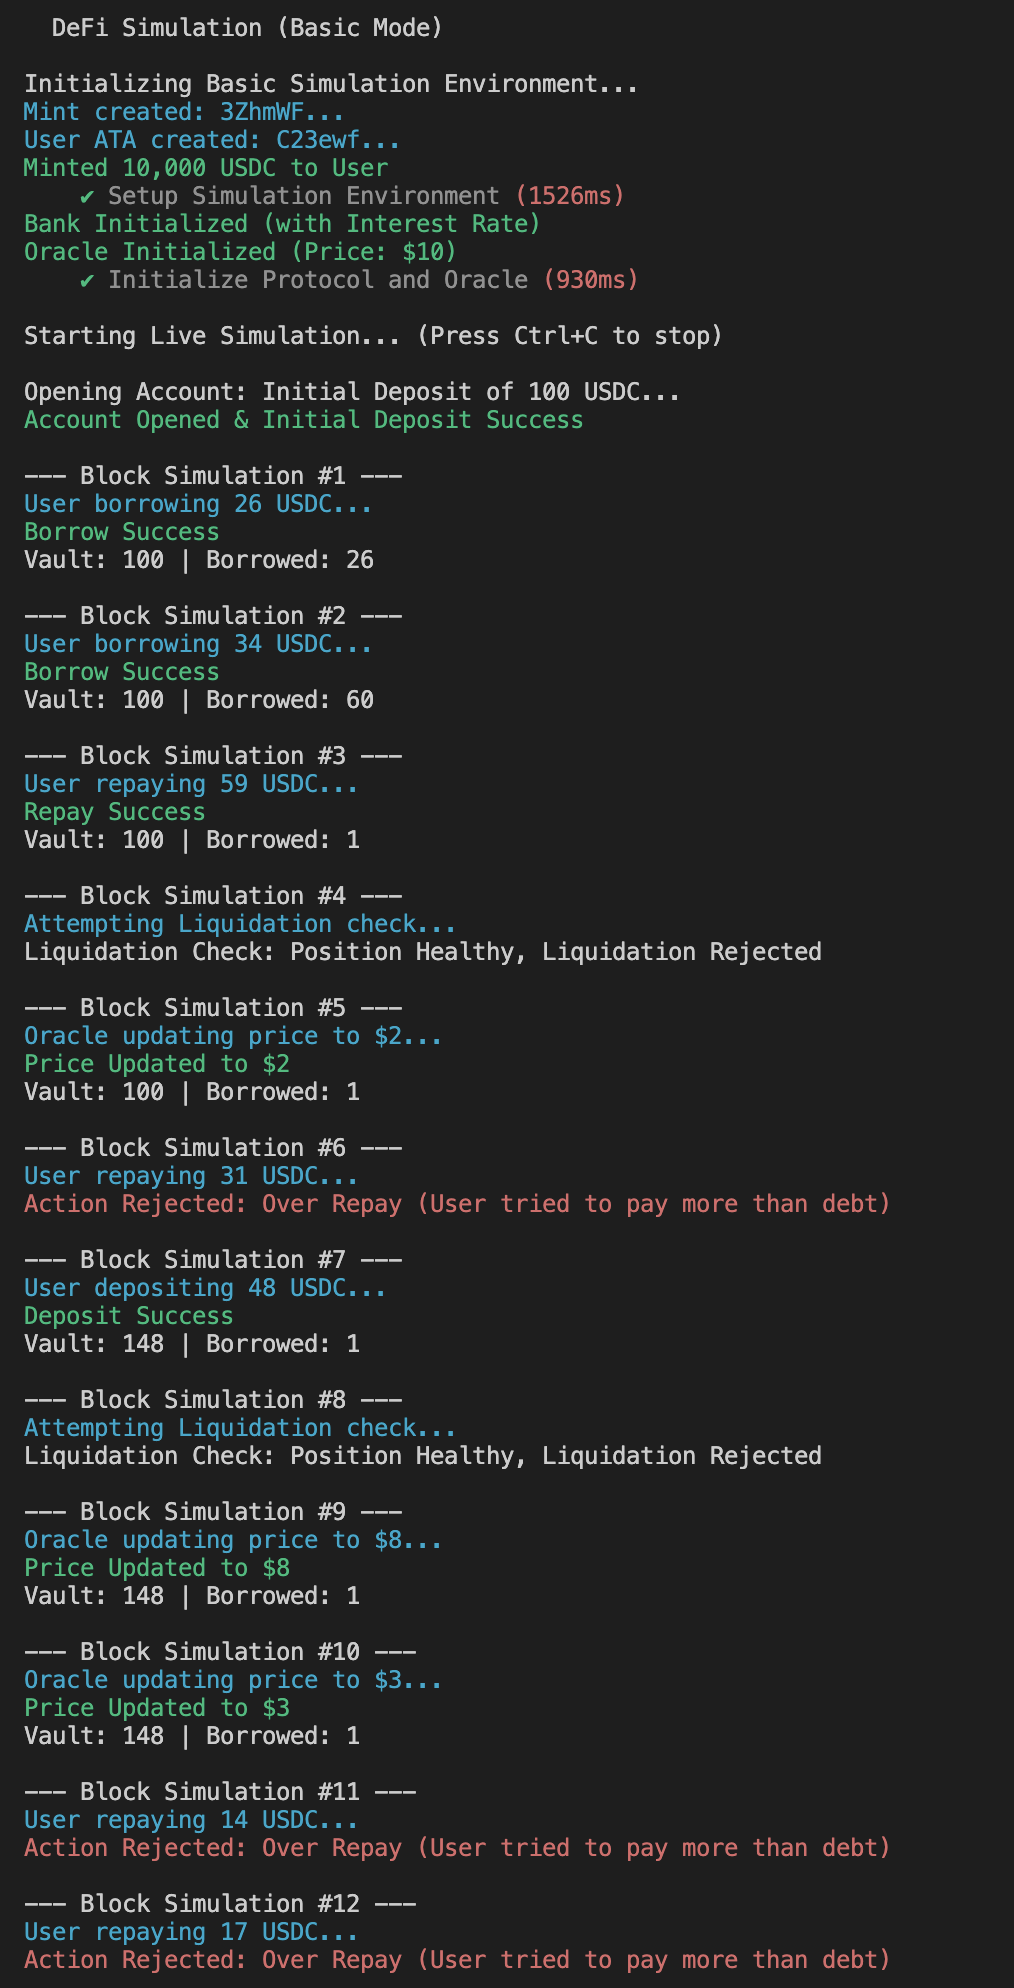
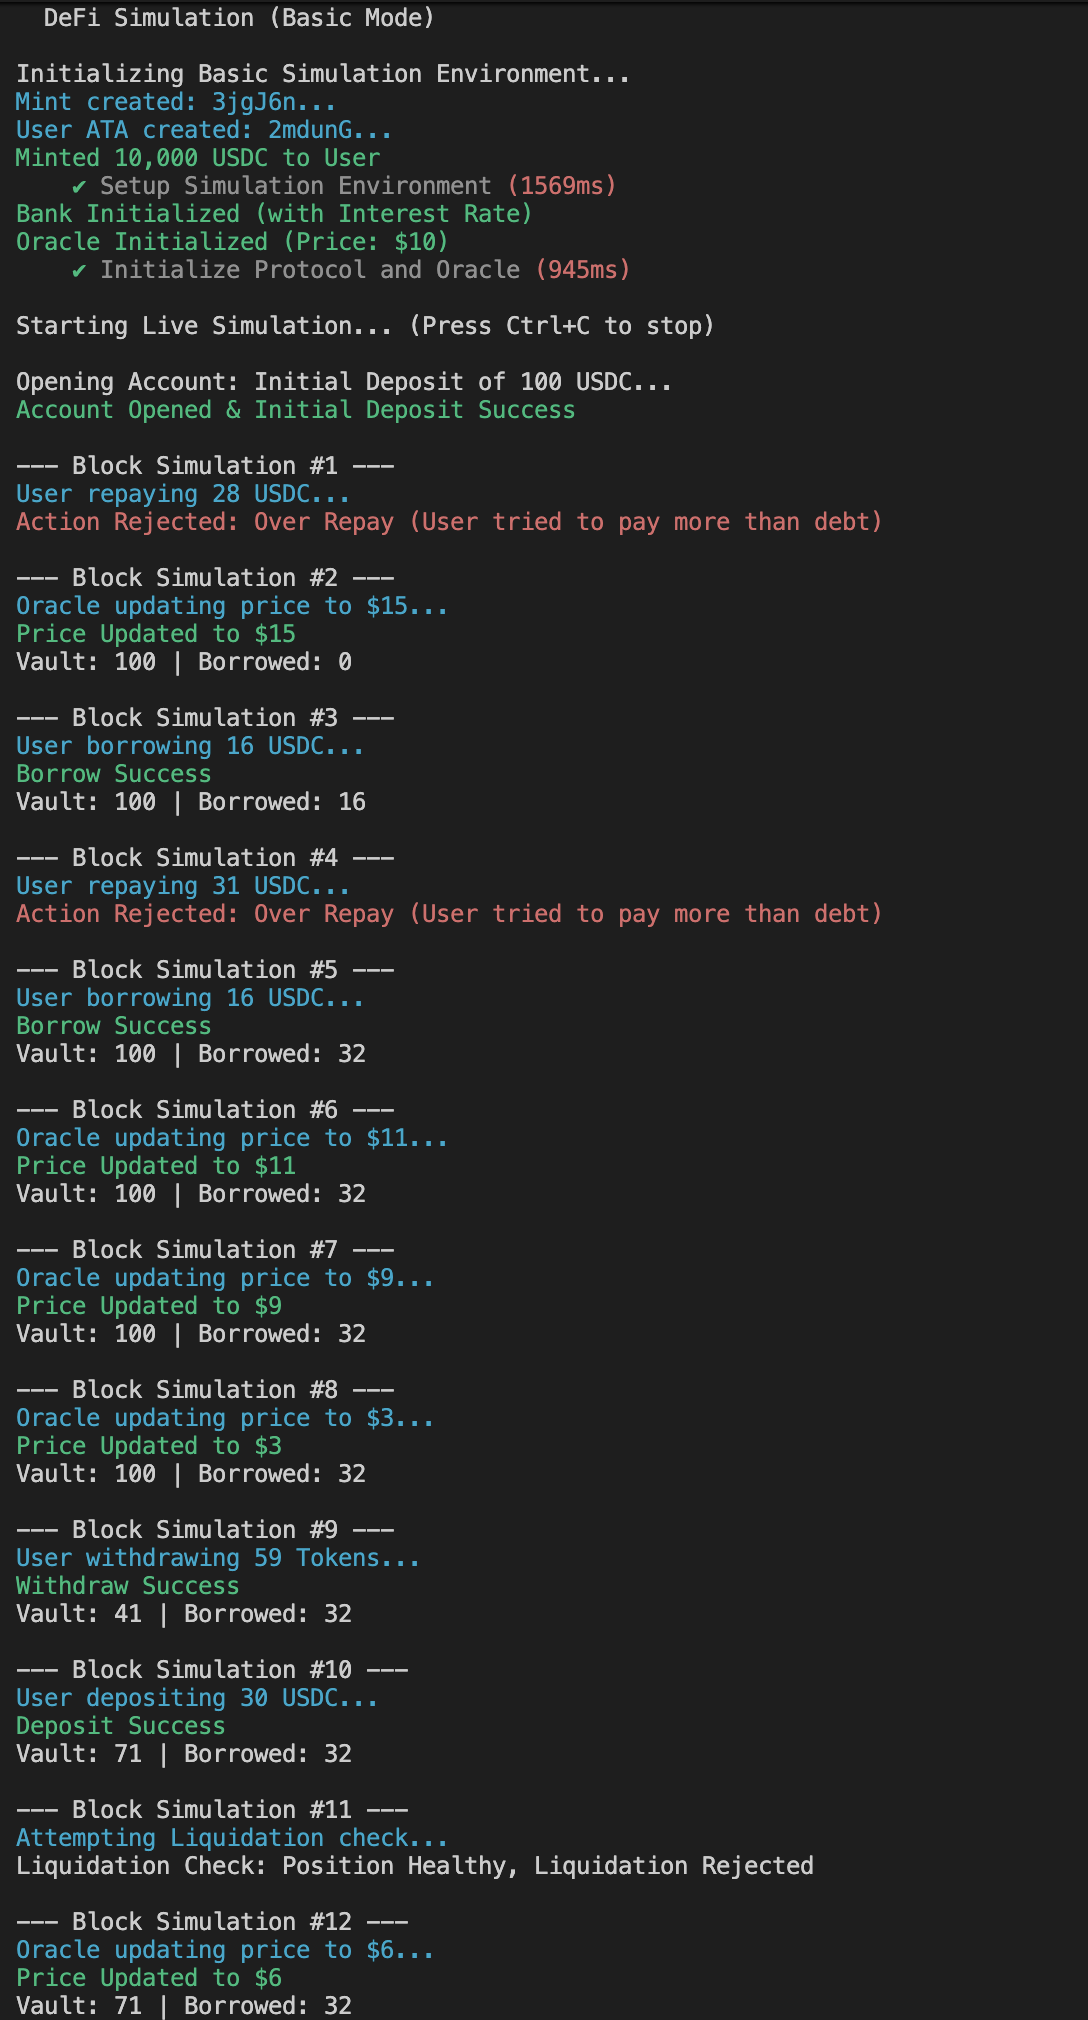
add withdrawn fin all

diff --git a/tests/simulate.ts b/tests/simulate.ts
@@ -127,7 +127,7 @@ describe("DeFi Simulation (Basic Mode)", () => {
     while (true) {
       counter++;
       console.log(`\n--- Block Simulation #${counter} ---`);
-      const action = Math.floor(Math.random() * 5);
+      const action = Math.floor(Math.random() * 6);
       const amount = new anchor.BN(Math.floor(Math.random() * 50) + 10); 
 
       try {
@@ -185,7 +185,7 @@ describe("DeFi Simulation (Basic Mode)", () => {
           }).rpc();
           logSuccess(`Price Updated to $${safePrice}`);
         }
-        else { 
+        else if (action == 4) { 
           log("Attempting Liquidation check...");
            await program.methods.liquidate(new anchor.BN(5)).accounts({
               // @ts-ignore
@@ -202,13 +202,29 @@ describe("DeFi Simulation (Basic Mode)", () => {
            }).rpc();
            logSuccess("Liquidation Executed! Collateral Seized.");
         }
+        else {
+          log(`User withdrawing ${amount.toString()} Tokens...`);
+           await program.methods.withdraw(amount).accounts({
+              // @ts-ignore
+              bank: bankPda,
+              bankTokenAccount: bankTokenAccount,
+              mint: mintKeypair.publicKey,
+              userTokenAccount: userTokenAccount,
+              userAccount: userAccountPda,
+              priceFeed: priceFeedKeypair.publicKey, 
+              signer: user.publicKey,
+              tokenProgram: TOKEN_PROGRAM_ID,
+           }).rpc();
+           logSuccess("Withdraw Success");
+        }
         const bankState = await program.account.bank.fetch(bankPda);
         console.log(`Vault: ${bankState.totalDeposits.toString()} | Borrowed: ${bankState.totalBorrowed.toString()}`);
       } catch (e: any) {
         if (e.message.includes("NotUndercollateralized") || e.message.includes("6004")) {console.log("Liquidation Check: Position Healthy, Liquidation Rejected");}
-        else if (e.message.includes("OverLTV")) logError("Rejected: Over LTV (Risk Control)");
+        else if (e.message.includes("OverLTV")) logError("Action Rejected: Over LTV (Borrow or Withdraw blocked to maintain solvency)");
         else if (e.message.includes("InsufficientFunds")) logError("Rejected: Not enough funds");
         else if (e.message.includes("OverRepay")) logError("Action Rejected: Over Repay (User tried to pay more than debt)")
+        else if (e.message.includes("0x1") || e.message.includes("insufficient funds")) logError("Action Rejected: Liquidity Crisis (Bank vault is empty)");
         else logError(`Transaction Failed: ${e.message}`);
       }
 

diff --git a/tests/solana-lendingpool.ts b/tests/solana-lendingpool.ts
@@ -222,6 +222,31 @@ describe("solana_lendingpool", () => {
     console.log("Bank state verified: Total Borrowed = 59,999,800");
   });
 
+  it("Withdraw Partial Collateral", async () => {
+    const withdrawAmount = new anchor.BN(10_000_000); 
+    console.log("Attempting to withdraw 10 USDC...");
+
+    await program.methods
+      .withdraw(withdrawAmount)
+      .accounts({
+        // @ts-ignore
+        bank: bankPda,
+        bankTokenAccount: bankTokenAccount,
+        mint: mint,
+        userTokenAccount: userTokenAccount,
+        userAccount: userAccountPda,
+        priceFeed: priceFeedKeypair.publicKey, 
+        signer: provider.wallet.publicKey,
+        tokenProgram: anchor.utils.token.TOKEN_PROGRAM_ID,
+      })
+      .rpc();
+
+    console.log("Withdraw transaction submitted, verifying state...");
+    
+    const userState = await program.account.userAccount.fetch(userAccountPda);
+    console.log("User remaining deposit in Bank:", userState.depositAmount.toString());
+  });
+
   it("Liquidate (Market Crash)", async () => {
     console.log("Simulating Market Crash...");
     await program.methods

diff --git a/programs/solana-lendingpool/src/lib.rs b/programs/solana-lendingpool/src/lib.rs
@@ -51,6 +51,61 @@ pub mod solana_lendingpool {
         Ok(())
     }
 
+    // 放在 borrow 函數附近
+    pub fn withdraw(ctx: Context<Withdraw>, amount: u64) -> Result<()> {
+        let bank = &mut ctx.accounts.bank;
+        let user_account = &mut ctx.accounts.user_account;
+        
+        bank.process_interest()?;
+
+        if amount > user_account.deposit_amount {
+            return err!(ErrorCode::InsufficientFunds);
+        }
+
+        if user_account.borrowed_amount > 0 {
+            let price_feed = &ctx.accounts.price_feed;
+            let remaining_collateral = user_account.deposit_amount
+                .checked_sub(amount)
+                .ok_or(ErrorCode::MathOverflow)?;
+            let collateral_value = remaining_collateral
+                .checked_mul(price_feed.price)
+                .ok_or(ErrorCode::MathOverflow)?;
+            let max_borrow_value = collateral_value
+                .checked_mul(bank.max_ltv)
+                .ok_or(ErrorCode::MathOverflow)?
+                .checked_div(100)
+                .ok_or(ErrorCode::MathOverflow)?;
+
+            if user_account.borrowed_amount > max_borrow_value {
+                return err!(ErrorCode::OverLTV); 
+            }
+        }
+
+        let mint_key = ctx.accounts.mint.key();
+        let signer_seeds: &[&[&[u8]]] = &[
+            &[
+                b"bank",
+                mint_key.as_ref(),
+                &[ctx.bumps.bank],
+            ],
+        ];
+
+        let cpi_accounts = Transfer {
+            from: ctx.accounts.bank_token_account.to_account_info(),
+            to: ctx.accounts.user_token_account.to_account_info(),
+            authority: bank.to_account_info(),
+        };
+        let cpi_program = ctx.accounts.token_program.to_account_info();
+        let cpi_ctx = CpiContext::new_with_signer(cpi_program, cpi_accounts, signer_seeds);
+
+        token::transfer(cpi_ctx, amount)?;
+        bank.total_deposits = bank.total_deposits.checked_sub(amount).unwrap();
+        user_account.deposit_amount = user_account.deposit_amount.checked_sub(amount).unwrap();
+
+        msg!("Withdraw successful! Amount: {}", amount);
+        Ok(())
+    }
+
     pub fn borrow(ctx: Context<Borrow>, amount: u64) -> Result<()> {
         let bank = &mut ctx.accounts.bank;
         let user_account = &mut ctx.accounts.user_account;
@@ -281,6 +336,45 @@ pub struct Deposit<'info> {
 
     pub token_program: Program<'info, Token>,
     pub system_program: Program<'info, System>,
+}
+
+#[derive(Accounts)]
+pub struct Withdraw<'info> {
+    #[account(
+        mut,
+        seeds = [b"bank", mint.key().as_ref()],
+        bump
+    )]
+    pub bank: Account<'info, Bank>,
+
+    #[account(
+        mut,
+        seeds = [b"treasury", mint.key().as_ref()],
+        bump
+    )]
+    pub bank_token_account: Account<'info, TokenAccount>,
+
+    #[account(mut)]
+    pub mint: Account<'info, Mint>,
+
+    #[account(
+        mut,
+        constraint = user_token_account.owner == signer.key(),
+        constraint = user_token_account.mint == mint.key()
+    )]
+    pub user_token_account: Account<'info, TokenAccount>,
+    pub price_feed: Account<'info, PriceFeed>, 
+
+    #[account(
+        mut,
+        seeds = [b"user", signer.key().as_ref()],
+        bump
+    )]
+    pub user_account: Account<'info, UserAccount>,
+
+    #[account(mut)]
+    pub signer: Signer<'info>,
+    pub token_program: Program<'info, Token>,
 }
 
 #[derive(Accounts)]
